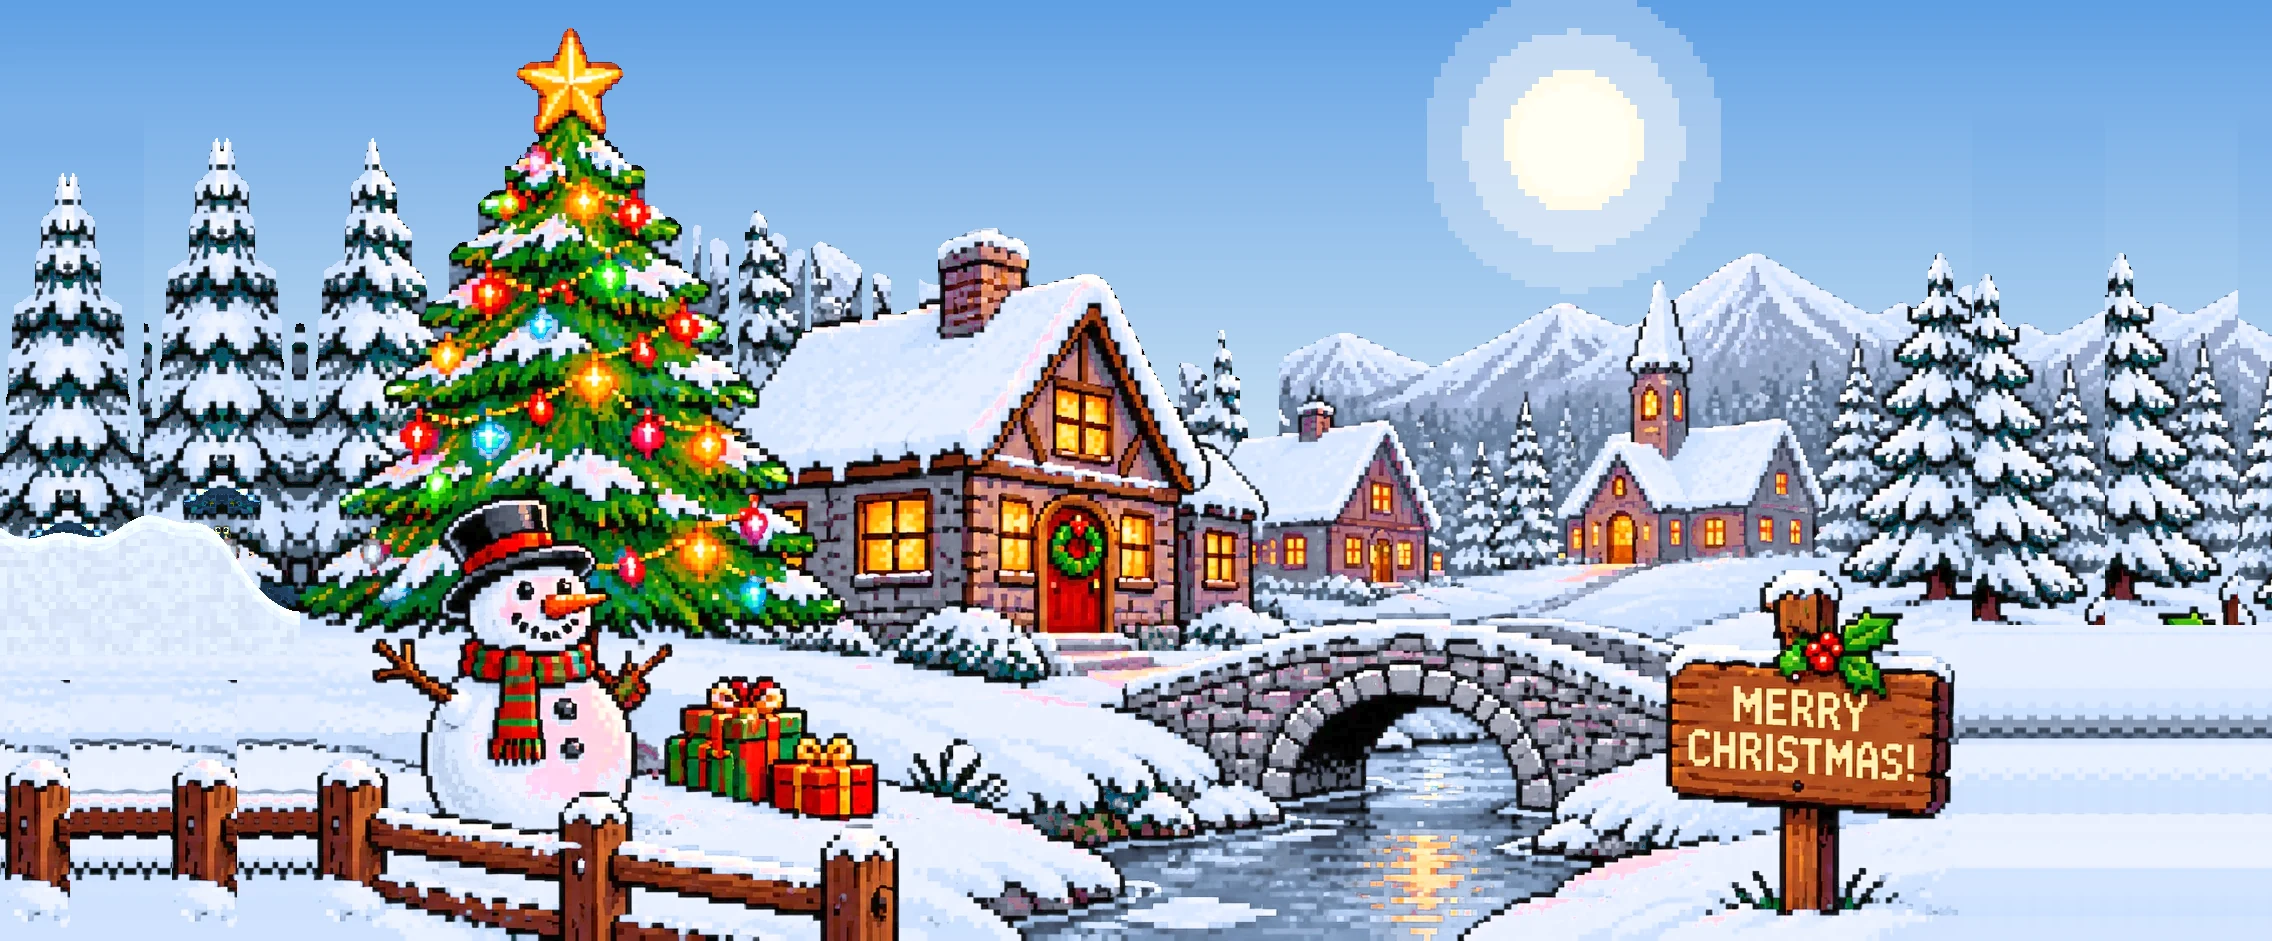
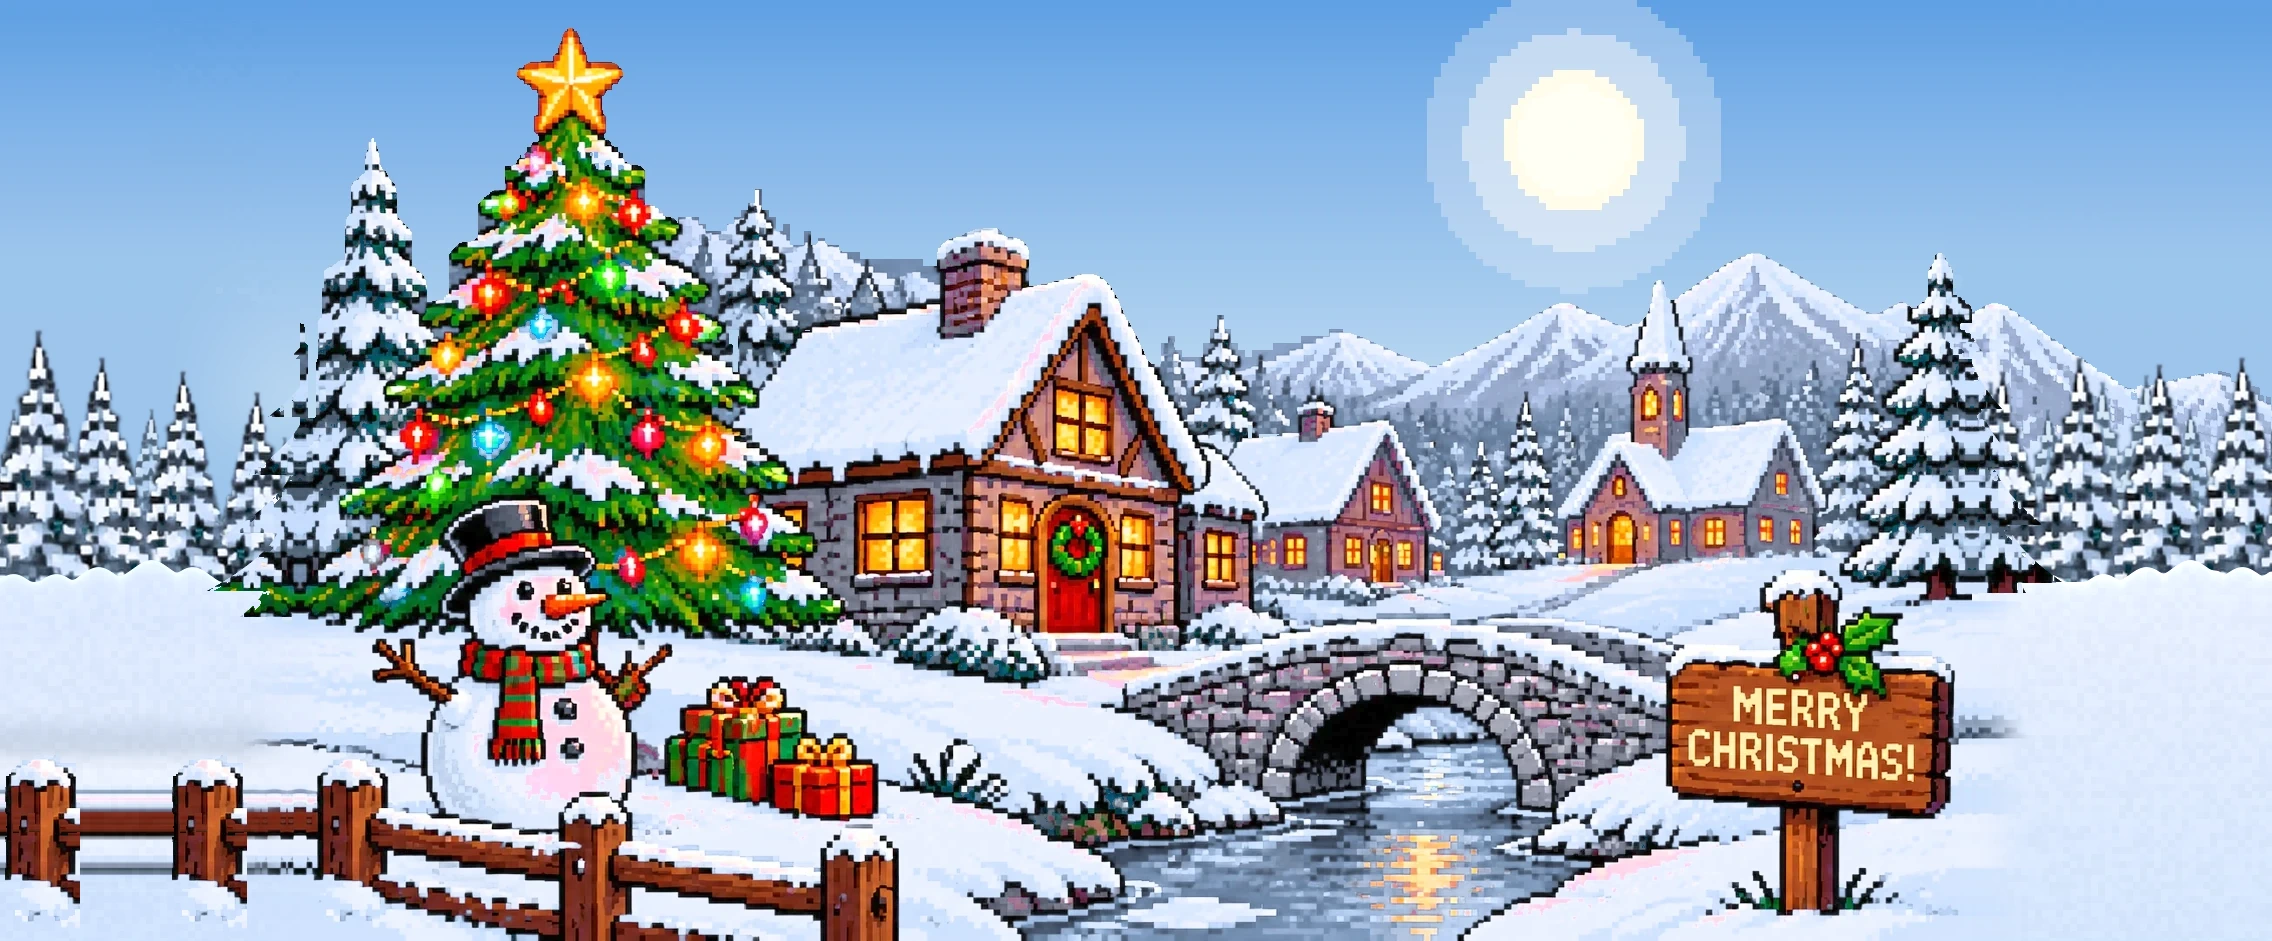
Widen the woods with the picture's own pines; countdown and cloud fixes
- The side woods use the picture's own slim pine, with the edge pines
  grown back past the picture's edges, the mountains carried on behind
  the right-hand woods, a soft snow bank at their feet and the far-left
  fence posts copied cleanly.
- Skies at the joins blend into the picture's own, and a square-ended
  cloud is rounded off.
- The countdown reads 30 DAYS & 09:14:05 HOURS (or 09:14 HOURS with the
  seconds off), with an option to hide the seconds.
- Day clouds are round all over, and the scroll moves every frame on
  whole screen pixels for a smoother glide.

diff --git a/assets/village/village.js b/assets/village/village.js
@@ -25,6 +25,8 @@
   var diagnostics = opts.diagnostics === true || query.has('diag');
   var clockMode = query.get('clock') || opts.clock || 'off';
   var countdown = opts.countdown === true || query.has('countdown');
+  // The countdown's seconds, on by default; off shows days, hours and minutes.
+  var countdownSeconds = !(opts.countdownSeconds === false || query.get('seconds') === 'off');
   var errors = [];
   window.addEventListener('error', function (e) { errors.push(String(e.message || e) + (e.lineno ? ' @' + e.lineno : '')); });
 
@@ -160,7 +162,10 @@
     }
     // A screen even wider than the picture loses a little sky and the rest from the foreground.
     var y = -spareY * 0.2;
-    stage.style.transform = 'translate(' + x.toFixed(1) + 'px,' + y.toFixed(1) + 'px) scale(' + scale + ')';
+    // On whole screen pixels, so the picture's crisp pixels don't shimmer as it moves.
+    var dpr = window.devicePixelRatio || 1;
+    x = Math.round(x * dpr) / dpr; y = Math.round(y * dpr) / dpr;
+    stage.style.transform = 'translate(' + x.toFixed(3) + 'px,' + y.toFixed(3) + 'px) scale(' + scale + ')';
   }
 
   // ---- Snow ---------------------------------------------------------------------------------
@@ -378,17 +383,35 @@
 
   // ---- Clouds by day -------------------------------------------------------------------------
   function makeCloud() {
-    var w = Math.round(rand(14, 28)), h = Math.round(rand(5, 8));
+    var w = Math.round(rand(14, 28)), h = Math.round(rand(7, 10));
     var c = document.createElement('canvas');
     c.width = w; c.height = h;
     var g = c.getContext('2d');
-    var blobs = [];
-    for (var i = 0; i < 4; i++) blobs.push([rand(h * 0.5, w - h * 0.5), rand(h * 0.45, h * 0.7), rand(h * 0.35, h * 0.6)]);
-    for (var y = 0; y < h; y++) for (var x = 0; x < w; x++) {
-      var inside = blobs.some(function (b) { var dx = (x + 0.5 - b[0]) / 1.4, dy = y + 0.5 - b[1]; return dx * dx + dy * dy < b[2] * b[2]; });
-      if (!inside && !(y >= h - 2 && x > 1 && x < w - 2)) continue;
-      g.fillStyle = y >= h - 2 ? 'rgb(214,226,242)' : y >= h - 3 ? 'rgb(236,242,250)' : '#fff';
-      g.fillRect(x, y, 1, 1);
+    // A row of round puffs, so the cloud is lumpy underneath as well as on top.
+    var blobs = [], n = Math.max(4, Math.round(w / 4));
+    for (var i = 0; i < n; i++) {
+      // Close enough together that the puffs overlap, with no gaps between them; smaller
+      // towards the ends, and each hanging to its own depth, so the underside rolls too.
+      var t = (i + 0.5) / n;
+      var r = Math.min((h - 0.6) / 2, h * (0.26 + 0.24 * Math.sin(Math.PI * t)) * rand(0.9, 1.1));
+      // Whole puffs, inside the cloud's canvas, so the top is rounded as well.
+      // and inside it side to side too, so the ends are round, not cut straight.
+      var cx = Math.max(1.4 * r + 0.3, Math.min(w - 1.4 * r - 0.3, t * w + rand(-0.7, 0.7)));
+      blobs.push([cx, h - r - 0.2 - rand(0, Math.max(0, h - 2 * r - 0.6)), r]);
+    }
+    function inside(x, y) {
+      return blobs.some(function (b) { var dx = (x + 0.5 - b[0]) / 1.4, dy = y + 0.5 - b[1]; return dx * dx + dy * dy < b[2] * b[2]; });
+    }
+    for (var x = 0; x < w; x++) {
+      // Each column shaded from its own underside up: blue-grey, then a paler grey, then white.
+      var bottom = -1;
+      for (var y = h - 1; y >= 0; y--) if (inside(x, y)) { bottom = y; break; }
+      for (var y2 = 0; y2 <= bottom; y2++) {
+        if (!inside(x, y2)) continue;
+        var up = bottom - y2;
+        g.fillStyle = up === 0 ? 'rgb(214,226,242)' : up === 1 ? 'rgb(236,242,250)' : '#fff';
+        g.fillRect(x, y2, 1, 1);
+      }
     }
     return c;
   }
@@ -437,6 +460,7 @@
     'U': '10001 10001 10001 10001 10001 10001 01110', 'V': '10001 10001 10001 10001 10001 01010 00100',
     'W': '10001 10001 10001 10101 10101 10101 01010', 'X': '10001 10001 01010 00100 01010 10001 10001',
     'Y': '10001 10001 10001 01010 00100 00100 00100', 'Z': '11111 00001 00010 00100 01000 10000 11111',
+    '&': '01100 10010 10100 01000 10101 10010 01101',
     ':': '0 1 1 0 1 1 0', '!': '1 1 1 1 1 0 1', ' ': '000 000 000 000 000 000 000'
   };
   var glyphs = {};
@@ -455,7 +479,8 @@
       for (var r = 0; r < 7; r++) for (var c = 0; c < rows[r].length; c++) if (rows[r][c] === '1') dots.push([cx + c * s, y + r * s, r]);
       cx += (rows[0].length + 1) * s;
     }
-    var o = Math.max(1, Math.round(s / 2));
+    // The outline and shadow stay a whole number of art pixels (HUD_SUB units each).
+    var o = HUD_SUB * Math.max(1, Math.round(s / HUD_SUB / 2));
     g.fillStyle = 'rgba(10,14,40,0.55)';
     dots.forEach(function (d) { g.fillRect(d[0] + o, d[1] + o * 2, s + o, s + o); });
     g.fillStyle = 'rgb(14,18,48)';
@@ -477,23 +502,28 @@
     if (now.getMonth() === 11 && now.getDate() > 25) year++;
     var left = Math.max(0, Math.floor((new Date(year, 11, 25) - now) / 1000));
     var days = Math.floor(left / 86400), rest = left % 86400;
-    var time = two(Math.floor(rest / 3600)) + ':' + two(Math.floor(rest % 3600 / 60)) + ':' + two(rest % 60);
-    return [(days ? days + (days === 1 ? ' DAY ' : ' DAYS ') : '') + time, 'UNTIL CHRISTMAS'];
+    var time = two(Math.floor(rest / 3600)) + ':' + two(Math.floor(rest % 3600 / 60)) + (countdownSeconds ? ':' + two(rest % 60) : '') + ' HOURS';
+    return [(days ? days + (days === 1 ? ' DAY & ' : ' DAYS & ') : '') + time, 'UNTIL CHRISTMAS DAY!'];
   }
+  // The lettering is drawn on a grid of fifths of an art pixel, so a line can be a fifth bigger
+  // as well as whole steps: HUD_SUB units make one art pixel.
+  var HUD_SUB = 5;
   function drawHud() {
     var showClock = clockMode === '12' || clockMode === '24';
     if ((!showClock && !countdown) || !sizedW) { hud.style.display = 'none'; return; }
     var now = new Date();
     var lines = [];
     if (showClock) lines.push({ text: clockText(now), big: true, top: '#ffffff', bottom: '#bfe0ff' });
-    if (countdown) countdownLines(now).forEach(function (l) { lines.push({ text: l, top: '#fff3a6', bottom: '#ffbe3a' }); });
+    // The countdown, and under it "until Christmas Day!" a fifth bigger.
+    if (countdown) countdownLines(now).forEach(function (l, i) { lines.push({ text: l, top: '#fff3a6', bottom: '#ffbe3a', size: i === 1 ? 1.2 : 1 }); });
     var key = sizedW + 'x' + sizedH + lines.map(function (l) { return l.text; }).join('|');
     if (key === hudKey) return;
     hudKey = key;
-    // One unit is one pixel of the art on screen, or smaller on a narrow screen so the longest
-    // line still fits.
-    var widest = Math.max.apply(null, lines.map(function (l) { return textWidth(l.text); }));
-    var unit = Math.max(1, Math.min(P * scale, sizedW / (widest + 8)));
+    // One art pixel is one pixel of the art on screen, or smaller on a narrow screen so the
+    // longest line still fits.
+    var widest = Math.max.apply(null, lines.map(function (l) { return textWidth(l.text) * (l.size || 1); }));
+    var art = Math.max(1, Math.min(P * scale, sizedW / (widest + 8)));
+    var unit = art / HUD_SUB;
     var cols = Math.ceil(sizedW / unit), rows = Math.ceil(sizedH / unit);
     if (hud.width !== cols || hud.height !== rows) {
       hud.width = cols; hud.height = rows;
@@ -502,14 +532,14 @@
     hctx.clearRect(0, 0, cols, rows);
     // Centred near the top, in the sky. The clock is two or three times the size, less on a
     // narrow screen.
-    var y = sizedW > sizedH ? 6 : 3;  // a little more room above it in landscape
+    var y = (sizedW > sizedH ? 6 : 3) * HUD_SUB;  // a little more room above it in landscape
     lines.forEach(function (l) {
-      var w = textWidth(l.text), s = 1;
-      if (l.big) s = Math.max(1, Math.min(3, Math.floor((cols * 0.8) / w)));
-      while (s > 1 && w * s > cols - 4) s--;
+      var w = textWidth(l.text), s = Math.round((l.size || 1) * HUD_SUB);
+      if (l.big) s = HUD_SUB * Math.max(1, Math.min(3, Math.floor((cols / HUD_SUB * 0.8) / w)));
+      while (s > HUD_SUB && w * s > cols - 4 * HUD_SUB) s--;
       var x = Math.round((cols - w * s) / 2);
       drawText(hctx, l.text, x, y, s, l.top, l.bottom);
-      y += 7 * s + (l.big ? 4 : 3);
+      y += 7 * s + (l.big ? 4 : 3) * HUD_SUB;
     });
     hud.style.display = 'block';
   }
@@ -548,6 +578,9 @@
   function frame(t) {
     lastCall = performance.now();
     next();
+    // The scroll moves on every frame the screen shows, for a smooth glide; the rest of the
+    // scene is drawn about 30 times a second.
+    try { place(t); } catch (e) { /* never stop the loop */ }
     var dt = (t - last) / 1000;
     if (dt < 1 / 32) return; // about 30 frames a second is plenty
     last = t;
@@ -561,7 +594,6 @@
     if (dt > 0.25) dt = 0.25;
     var m = minutesNow(), d = daylight(m), n = 1 - d;
     drawBase(d, glow(m));
-    place(t);
     drawClouds(dt, d);
     ctx.clearRect(0, 0, GW, GH);
     drawWindows(t, n);

diff --git a/assets/village/index.html b/assets/village/index.html
@@ -10,7 +10,7 @@
   #view { position: fixed; left: 0; top: 0; right: 0; bottom: 0; overflow: hidden; }
   /* The scene is drawn at the picture's own size and scaled to fill the screen. The script sets
      the sizes from the picture's. */
-  #stage { position: absolute; left: 0; top: 0; transform-origin: 0 0; }
+  #stage { position: absolute; left: 0; top: 0; transform-origin: 0 0; will-change: transform; }
   #stage canvas, #stage img { position: absolute; left: 0; top: 0; image-rendering: pixelated; image-rendering: crisp-edges; }
   /* The clock and countdown: fixed on the screen while the scene scrolls behind. */
   #hud { position: fixed; left: 0; top: 0; pointer-events: none; image-rendering: pixelated; image-rendering: crisp-edges; display: none; }

diff --git a/tests/VillageTest.java b/tests/VillageTest.java
@@ -46,6 +46,8 @@ public final class VillageTest {
         assert "off".equals(o.get("clock")) && Boolean.FALSE.equals(o.get("countdown")) : o;
         o = VillagePlugin.options(map("clock", "12 hour", "countdown", true));
         assert "12".equals(o.get("clock")) && Boolean.TRUE.equals(o.get("countdown")) : o;
+        assert Boolean.TRUE.equals(VillagePlugin.options(map()).get("countdownSeconds"));
+        assert Boolean.FALSE.equals(VillagePlugin.options(map("countdownSeconds", false)).get("countdownSeconds"));
         assert "24".equals(VillagePlugin.options(map("clock", "24 hour")).get("clock"));
         assert Boolean.TRUE.equals(VillagePlugin.options(map("diagnostics", true)).get("diagnostics"));
 

diff --git a/src/kiosk/xmas/VillagePlugin.java b/src/kiosk/xmas/VillagePlugin.java
@@ -88,6 +88,7 @@ public final class VillagePlugin implements KioskPlugin {
         int clock = CLOCKS.indexOf(settings.get("clock"));
         options.put("clock", CLOCK_MODES.get(clock < 0 ? 0 : clock));
         options.put("countdown", Boolean.TRUE.equals(settings.get("countdown")));
+        options.put("countdownSeconds", !Boolean.FALSE.equals(settings.get("countdownSeconds")));
         options.put("diagnostics", Boolean.TRUE.equals(settings.get("diagnostics")));
         return options;
     }

diff --git a/README.md b/README.md
@@ -57,7 +57,8 @@ Open **Settings > Plugin Manager**, choose **Christmas Village** and change any 
 | Setting | Choices | Default | What it does |
 | --- | --- | --- | --- |
 | Clock | Off, 24 hour, 12 hour | Off | Shows the time at the top of the screen in pixel lettering, like a 16-bit game. |
-| Countdown to Christmas | On or off | Off | Shows the days, hours, minutes and seconds until Christmas Day, under the clock if it's on. On Christmas Day it says MERRY CHRISTMAS! |
+| Countdown to Christmas | On or off | Off | Shows the days, hours, minutes and seconds until Christmas Day, under the clock if it's on. Under it, UNTIL CHRISTMAS DAY! a little larger. On Christmas Day it says MERRY CHRISTMAS! |
+| Show seconds in the countdown | On or off | On | Counts down the seconds too, as in 30 DAYS & 09:14:05 HOURS. Off shows 30 DAYS & 09:14 HOURS. |
 
 The clock and countdown stay put while the picture scrolls behind them.
 
